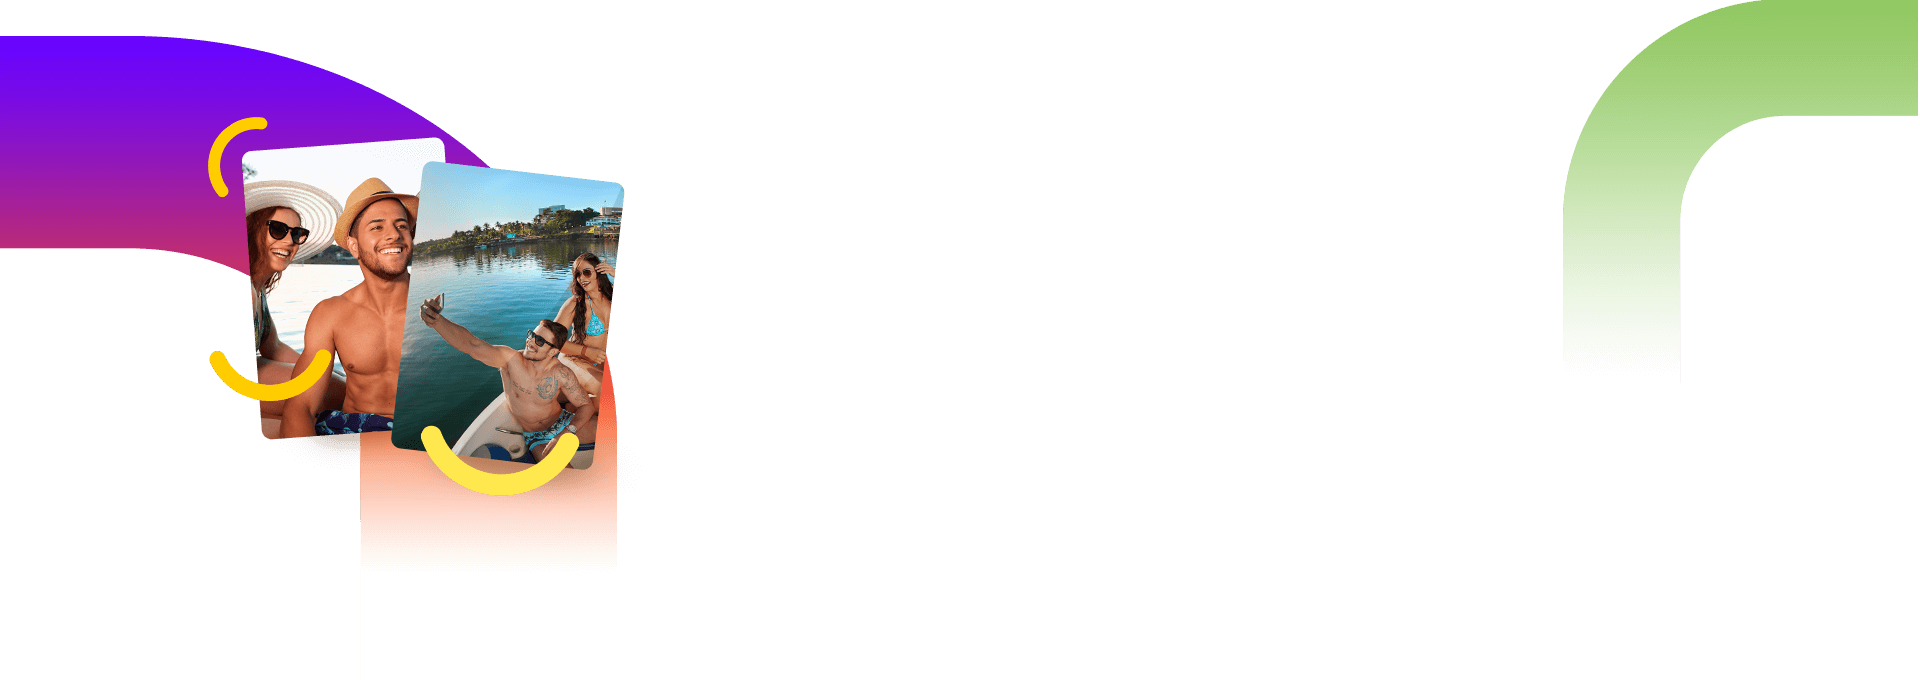
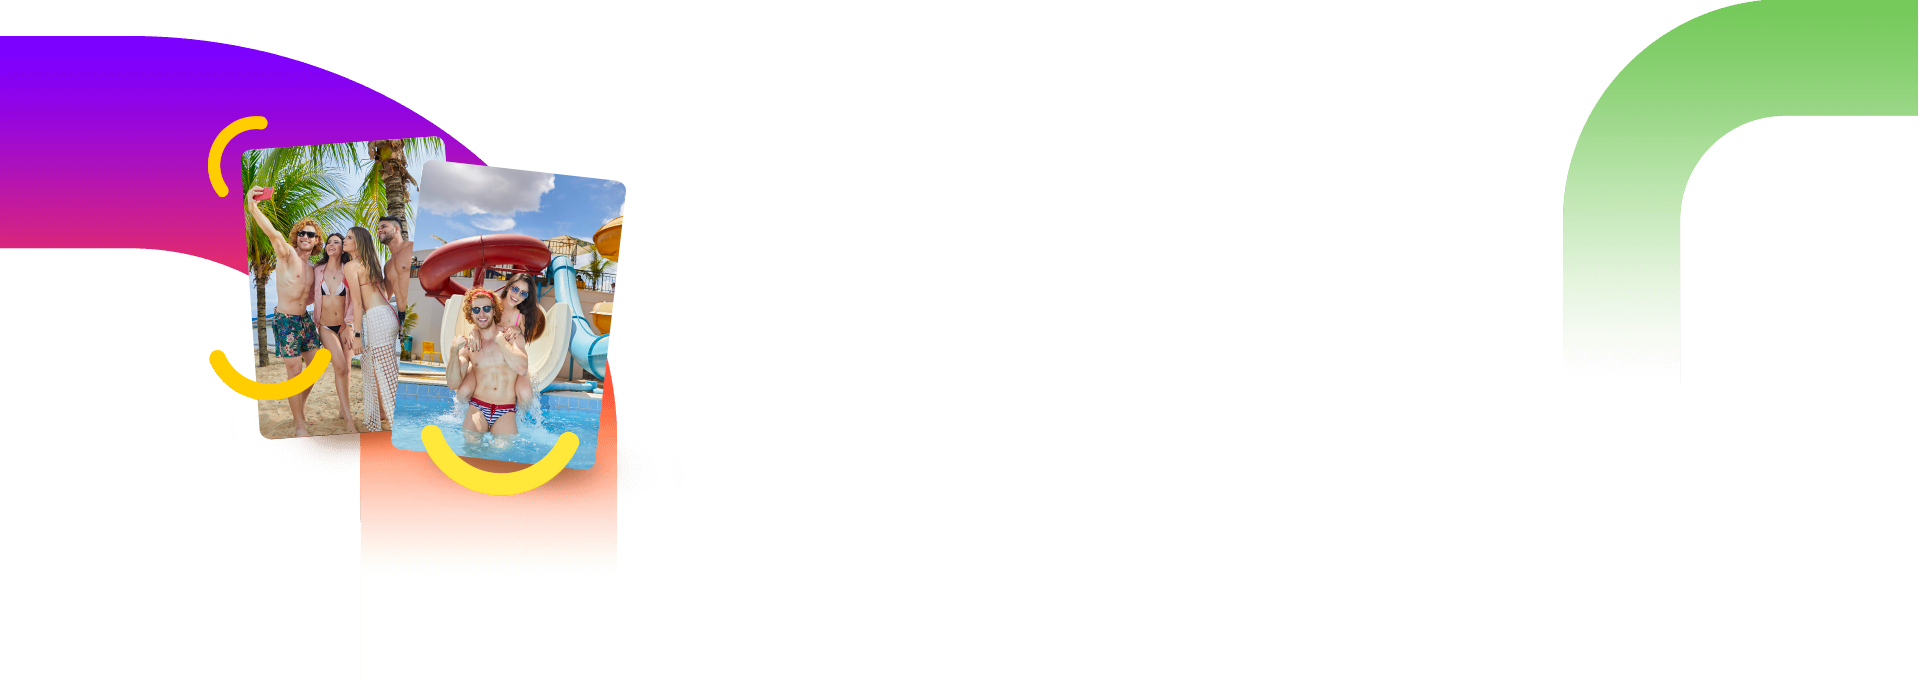
fotos novas

Changed region(s): [[0.0, 0.1853, 0.3438, 0.7103], [0.8438, 0.0, 1.0, 0.0926]]

diff --git a/Site/src/app/tranquilidade-lazer/tranquilidade-lazer.component.ts b/Site/src/app/tranquilidade-lazer/tranquilidade-lazer.component.ts
@@ -28,6 +28,26 @@ export class TranquilidadeLazerComponent implements OnInit {
       previewUrl: 'assets/images/tranquilidade-lazer/galeria/galeria12.jpg'
     },
     {
+      srcUrl: 'assets/images/tranquilidade-lazer/galeria/galeria13.jpg',
+      previewUrl: 'assets/images/tranquilidade-lazer/galeria/galeria13.jpg'
+    },
+    {
+      srcUrl: 'assets/images/tranquilidade-lazer/galeria/galeria14.jpg',
+      previewUrl: 'assets/images/tranquilidade-lazer/galeria/galeria14.jpg'
+    },
+    {
+      srcUrl: 'assets/images/tranquilidade-lazer/galeria/galeria15.jpg',
+      previewUrl: 'assets/images/tranquilidade-lazer/galeria/galeria15.jpg'
+    },
+    {
+      srcUrl: 'assets/images/tranquilidade-lazer/galeria/galeria16.jpg',
+      previewUrl: 'assets/images/tranquilidade-lazer/galeria/galeria16.jpg'
+    },
+    {
+      srcUrl: 'assets/images/tranquilidade-lazer/galeria/galeria17.jpg',
+      previewUrl: 'assets/images/tranquilidade-lazer/galeria/galeria17.jpg'
+    },
+    {
       srcUrl: 'assets/images/tranquilidade-lazer/galeria/galeria1.jpg',
       previewUrl: 'assets/images/tranquilidade-lazer/galeria/galeria1.jpg'
     },
@@ -116,6 +136,10 @@ export class TranquilidadeLazerComponent implements OnInit {
 
   sliderGastronomia = [
     {
+      src: 'assets/images/tranquilidade-lazer/gastronomia-full-2.jpg',
+      alt: 'Fotos da gastronomia'
+    },
+    {
       src: 'assets/images/tranquilidade-lazer/gastronomia-full-1.jpg',
       alt: 'Fotos da gastronomia'
     }
@@ -156,7 +180,7 @@ export class TranquilidadeLazerComponent implements OnInit {
     private title: Title,
     public _lightbox: Lightbox
     ) {
-      for (let i = 1; i <= 11; i++) {
+      for (let i = 17; i >= 2; i--) {
         const src = 'assets/images/tranquilidade-lazer/galeria/galeria' + i + '.jpg';
         const caption = 'Tranquilidade e Lazer';
         const album = {

diff --git a/Site/src/app/home/home.component.ts b/Site/src/app/home/home.component.ts
@@ -42,16 +42,34 @@ export class HomeComponent implements OnInit {
 
   banners = [
     {
-      title: "Sua vida em",
-      subtitle: "ritmo de férias!",
-      img: "assets/images/banner-1.png",
-      alt: "Sua vida em ritmo de férias"
+      title: "Férias incríveis",
+      subtitle: "te esperam",
+      img: "assets/images/banner-ferias.png",
+      alt: "Férias incríveis te esperam"
+    },
+    {
+      title: "Um resort às",
+      subtitle: "margens do lago",
+      img: "assets/images/banner-resort.png",
+      alt: "Um resort às margens do lago"
+    },
+    {
+      title: "O seu verão",
+      subtitle: "começa aqui",
+      img: "assets/images/banner-verao.png",
+      alt: "O seu verão começa aqui"
     },
     {
       title: "Um lugar",
       subtitle: "paradisíaco",
       img: "assets/images/banner-3.png",
       alt: "Um lugar paradisíaco"
+    },
+    {
+      title: "Sua vida em",
+      subtitle: "ritmo de férias!",
+      img: "assets/images/banner-1.png",
+      alt: "Sua vida em ritmo de férias"
     },
     {
       title: "Às margens do",
@@ -261,7 +279,7 @@ export class HomeComponent implements OnInit {
           this.HttpService.JSON_GET(`/data/depoimentos/nomePessoa/asc/*/id,hashID,sts,nomePessoa,depoimento/*`, headerConfig)
             .then(
               (res) => {
-                this.arDepoimentos = res.json().data;
+                this.arDepoimentos = JSON.parse(res.json().data);
                 // console.log(this.arDepoimentos);
                 // console.log(this.depoimentos);
 

diff --git a/Site/src/app/home/home.component.html b/Site/src/app/home/home.component.html
@@ -179,7 +179,7 @@
         <div class="offset-xl-1 col-xl-4 mt-8 offset-lg-1 col-lg-5 offset-md-1 col-md-6 offset-sm-4 col-sm-8 offset-4 col-8">
           <img src="assets//images/tripadvisor.png" alt="">
           <owl-carousel [options]="{items: 1, dots: false, nav: true, margin: 120, loop: true}" [carouselClasses]="['owl-theme', 'row', 'sliding']">
-            <div class="item" *ngFor="let depoimento of depoimentos">
+            <div class="item" owl-carousel-item *ngFor="let depoimento of depoimentos">
               <p class="description">
                 “{{ depoimento.depoimento }}”
               </p>

diff --git a/Site/src/app/resort/resort.component.ts b/Site/src/app/resort/resort.component.ts
@@ -75,7 +75,7 @@ export class ResortComponent implements OnInit {
 
   sliderParque = [
     {
-      src: 'assets/images/resort/parque.jpg',
+      src: 'assets/images/resort/parque5.jpg',
       alt: 'Fotos do parque aquatico'
     },
     {
@@ -141,7 +141,7 @@ export class ResortComponent implements OnInit {
     private title: Title,
     public _lightbox: Lightbox
     ) {
-      for (let i = 1; i <= 14; i++) {
+      for (let i = 13; i >= 2; i--) {
         const src = 'assets/images/resort/galeria/galeria' + i + '.jpg';
         const caption = 'O Resort';
         const album = {

diff --git a/Site/src/app/diversao-aventura/diversao-aventura.component.ts b/Site/src/app/diversao-aventura/diversao-aventura.component.ts
@@ -179,7 +179,7 @@ export class DiversaoAventuraComponent implements OnInit {
     private title: Title,
     public _lightbox: Lightbox
     ) {
-      for (let i = 1; i <= 18; i++) {
+      for (let i = 16; i >= 1; i--) {
         const src = 'assets/images/diversao-aventura/galeria/galeria' + i + '.jpg';
         const caption = 'Diversão e Aventura';
         const album = {
